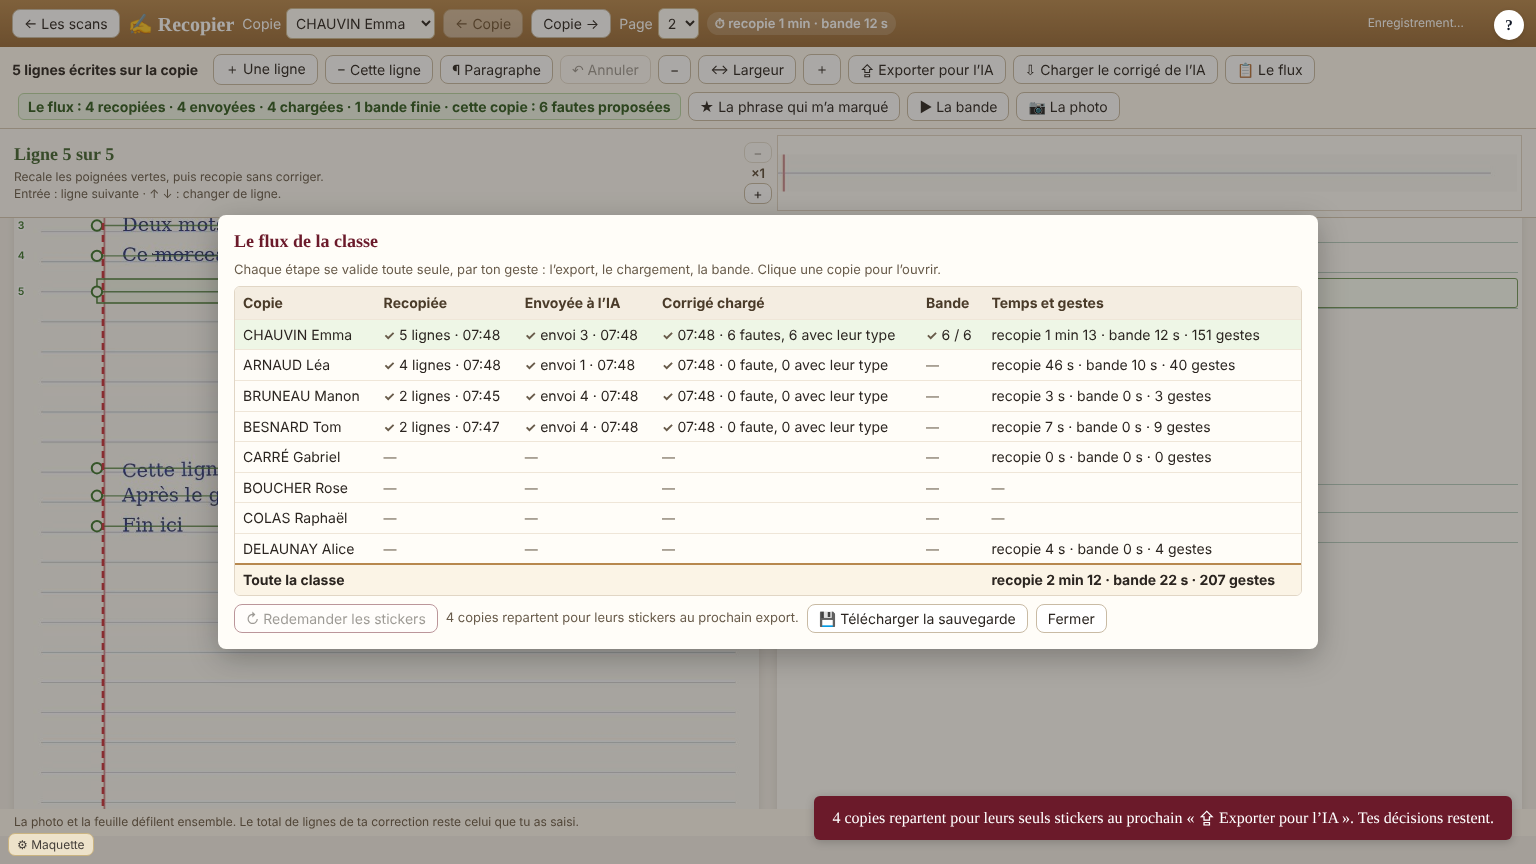
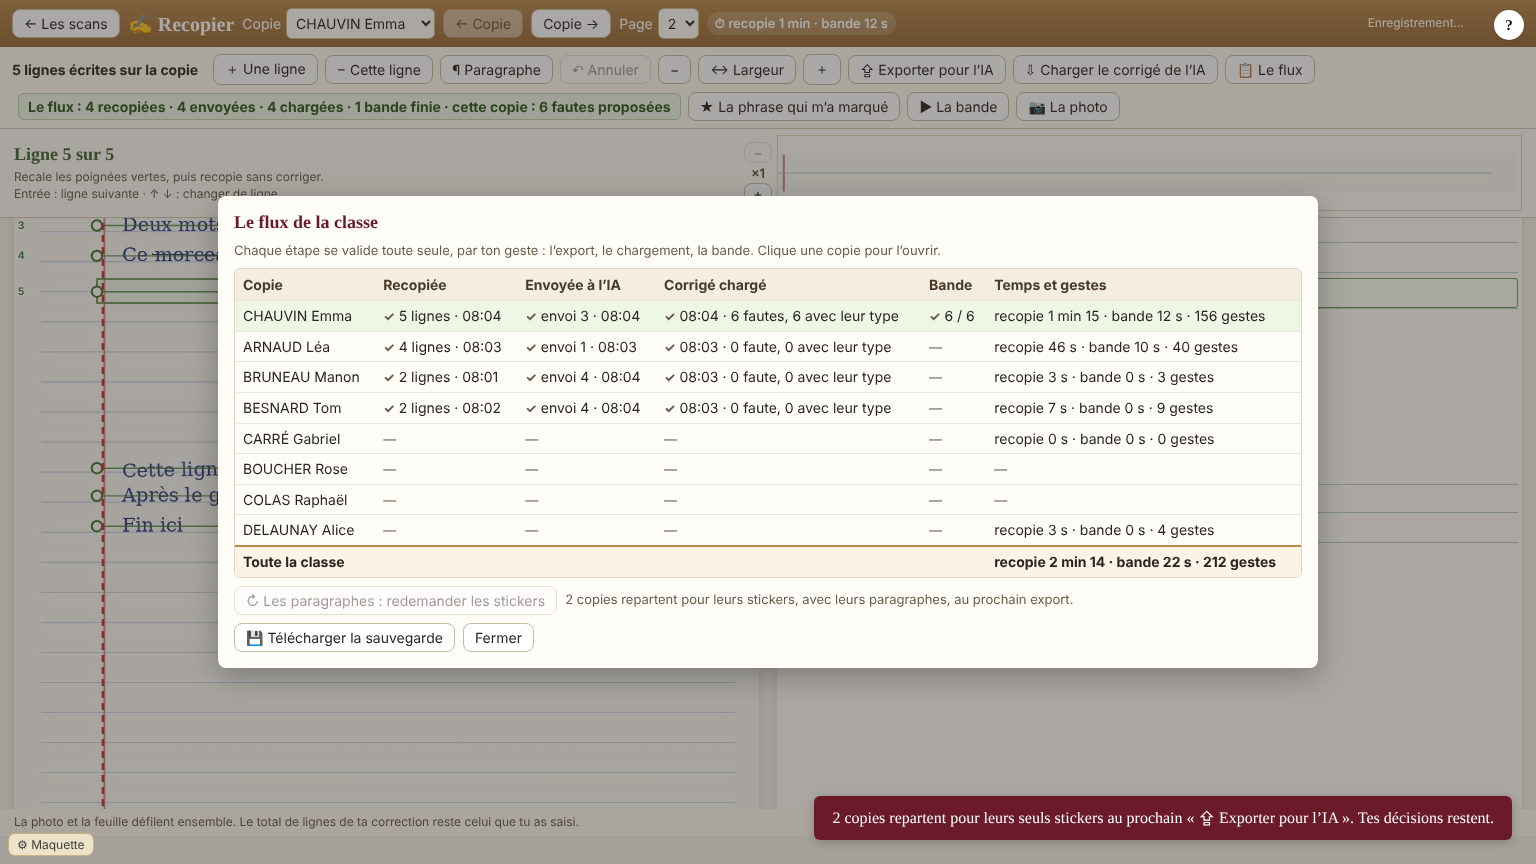
1.4.22-RU candidate (refaite) : 656, le rattrapage des paragraphes avec sa garde ; banc 154/0
Claude-Session: https://claude.ai/code/session_01W6y3bxqxe8JCGmg71JNvhD

Changed region(s): [[0.125, 0.2188, 0.875, 0.7812]]

diff --git a/LIVRAISONS/REDACTION/redaction-1.4.22-RU-candidat.html b/LIVRAISONS/REDACTION/redaction-1.4.22-RU-candidat.html
@@ -8046,7 +8046,7 @@ function rcInterface() {
     '<button id="rcPhOrdre" class="sc-btn" title="La dernière page de cette copie passe en premier (une copie photographiée dans le désordre). Chaque page garde sa recopie.">⇄ Ordre des pages</button>',
     '<button id="rcPhRetirer" class="sc-btn" title="Retirer les photos de cette copie de ce navigateur seulement. Une confirmation est demandée. Ta recopie, ta correction et tes marques restent au site.">🗑 Retirer les photos</button></div>',
     '<p id="rcPhotoPourquoi" class="rc-photo-pq"></p><div class="rc-ia-b"><button id="rcPhotoFermer" class="sc-btn" title="Fermer (Échap) : rien ne change.">Fermer</button></div></div></div>',
-    '<div id="rcFlux" class="rc-ia" hidden><div class="rc-ia-c rc-flux-c" role="dialog" aria-label="Le flux de la classe"><b>Le flux de la classe</b><span>Chaque étape se valide toute seule, par ton geste : l’export, le chargement, la bande. Clique une copie pour l’ouvrir.</span><div id="rcFluxTable" class="rc-flux-t"></div><div class="rc-ia-b"><button id="rcStRedemander" class="sc-btn" title="Les copies dont les stickers sont déjà revenus de l’IA repartent pour leurs seuls stickers au prochain « ⇪ Exporter pour l’IA » (avec leurs paragraphes, 632). Tes décisions restent ; la bande ne s’arrêtera que sur les stickers nouveaux.">↻ Redemander les stickers</button><span id="rcStRedemanderPq" class="rc-photo-pq"></span><button id="rcSauvegarde" class="sc-btn" title="Télécharger la sauvegarde de toute la rédaction, telle qu’elle est au site : le sujet et sa grille de stickers, les copies (recopie, envois, corrigés, bande, stickers, remarques, temps), les pages du paquet, les retours des élèves. « 📤 Restaurer » la relit. Les photos n’y sont pas : elles ne quittent jamais ce navigateur.">💾 Télécharger la sauvegarde</button><button id="rcFluxFermer" class="sc-btn" title="Fermer (Échap)">Fermer</button></div></div></div>',
+    '<div id="rcFlux" class="rc-ia" hidden><div class="rc-ia-c rc-flux-c" role="dialog" aria-label="Le flux de la classe"><b>Le flux de la classe</b><span>Chaque étape se valide toute seule, par ton geste : l’export, le chargement, la bande. Clique une copie pour l’ouvrir.</span><div id="rcFluxTable" class="rc-flux-t"></div><div class="rc-ia-b"><button id="rcStRedemander" class="sc-btn" hidden title="Un rattrapage, une seule fois : les copies envoyées à l’IA avant qu’elle voie les paragraphes (avant la 1.4.22) ont eu leurs stickers jugés sans eux. Elles repartent pour leurs seuls stickers, avec leurs paragraphes. Une fenêtre te dit d’abord ce que ça change (leurs remarques à relire, leurs fichiers à refaire). Le bouton disparaît quand plus aucune copie n’en a besoin.">↻ Les paragraphes : redemander les stickers</button><span id="rcStRedemanderPq" class="rc-photo-pq"></span><button id="rcSauvegarde" class="sc-btn" title="Télécharger la sauvegarde de toute la rédaction, telle qu’elle est au site : le sujet et sa grille de stickers, les copies (recopie, envois, corrigés, bande, stickers, remarques, temps), les pages du paquet, les retours des élèves. « 📤 Restaurer » la relit. Les photos n’y sont pas : elles ne quittent jamais ce navigateur.">💾 Télécharger la sauvegarde</button><button id="rcFluxFermer" class="sc-btn" title="Fermer (Échap)">Fermer</button></div></div></div>',
     '<div id="rcIA" class="rc-ia" hidden><div class="rc-ia-c" role="dialog" aria-label="Charger le corrigé de l’IA"><b>Charger le corrigé de l’IA</b><span>Colle ici tout le retour de l’IA, ou choisis le fichier qu’elle t’a rendu. Rien ne change tant que toutes les lignes ne correspondent pas.</span>',
     '<textarea id="rcIATexte" spellcheck="false" placeholder="Colle ici le retour de l’IA"></textarea>',
     '<div class="rc-ia-b"><label class="sc-btn" title="Choisir le fichier rendu par l’IA, ou tous ses fichiers d’un coup : ils se chargent l’un après l’autre, dans n’importe quel ordre.">Choisir un ou plusieurs fichiers<input id="rcIAFichier" type="file" multiple accept=".json,.txt,application/json,text/plain" hidden></label><button id="rcIAValider" class="sc-btn" title="Vérifier toutes les lignes, puis enregistrer le corrigé">Vérifier et charger</button><button id="rcIAFermer" class="sc-btn" title="Fermer sans rien changer (Échap)">Fermer</button><button id="rcIAEffacer" class="sc-btn rc-ia-effacer" title="Effacer, sur toute la classe, le corrigé de l’IA et tout ce qui vient de la bande (décisions, marques posées par la bande, cadres visés), pour tout refaire proprement. Ta recopie ne bouge pas. Une confirmation est demandée ; tout passe d’abord par la corbeille MJPC et un export.">🗑 Tout effacer : corrigés de l’IA et bande</button></div><p id="rcIAMessage" role="status"></p><div id="rcIAEffacerQ" class="rc-ia-q" hidden></div></div></div>'
@@ -8079,7 +8079,7 @@ function rcInterface() {
   e.querySelector("#rcPhRetoucher").onclick = () => rcPhotoFaire(pid => scRetoucher(pid));
   e.querySelector("#rcPhOrdre").onclick = () => rcPhotoFaire(() => scOrdrePages(RC.copie));
   e.querySelector("#rcPhRetirer").onclick = () => rcPhotoFaire(() => scRetirerPhotos());
-  e.querySelector("#rcFluxOuvrir").onclick = rcFluxOuvrir; e.querySelector("#rcFluxFermer").onclick = rcFluxFermer; e.querySelector("#rcSauvegarde").onclick = () => svTelecharger(); e.querySelector("#rcStRedemander").onclick = () => { stRedemander(); rcFluxRendre(); };
+  e.querySelector("#rcFluxOuvrir").onclick = rcFluxOuvrir; e.querySelector("#rcFluxFermer").onclick = rcFluxFermer; e.querySelector("#rcSauvegarde").onclick = () => svTelecharger(); e.querySelector("#rcStRedemander").onclick = () => stRedemanderDemander();
   e.querySelector("#rcPhraseOuvrir").onclick = rcPhraseOuvrir; e.querySelector("#rcPhraseFermer").onclick = rcPhraseFermer; e.querySelector("#rcPhraseOui").onclick = rcPhraseValider;
   e.querySelector("#rcPhraseAucune").onchange = ev => { if (ev.target.checked) rcPhraseAucune(); };
   e.querySelector("#rcIAEffacer").onclick = rcIAEffacerDemander;
@@ -8545,7 +8545,7 @@ function rcExportIA(renvoi) {
   const paquetsEnAttente = new Set(attente.map(k => (scCopie(k).recopie.envoi || {}).n)).size;
   const copies = aFaire.slice(0, RC_PAQUET_IA), le = new Date().toISOString(), nEnvoi = 1 + SC.copies.reduce((m, k) => Math.max(m, (((scCopie(k).recopie || {}).envoi) || {}).n || 0), 0);
   copies.forEach(k => { const s = scCopie(k), c = state.copies[k]; if (c && !c.id) { c.id = idCopie(); if (!c.creeLe) c.creeLe = le; }   // [C14 1.4.16] une copie part toujours avec son identité interne (une copie toute neuve n'en avait pas encore)
-    s.recopie = s.recopie || {}; s.recopie.envoi = Object.assign({ n: nEnvoi, le, lignes: rcLignesEcrites(k).length }, sti && !rcCopieACorriger(k) ? { seul: true } : {}); });   // [C14 1.4.11] le flux : l'envoi de chaque copie, numéroté et daté
+    s.recopie = s.recopie || {}; s.recopie.envoi = Object.assign({ n: nEnvoi, le, lignes: rcLignesEcrites(k).length, par: true }, sti && !rcCopieACorriger(k) ? { seul: true } : {}); /* [C14 656] par : ses paragraphes sont partis avec elle */ });   // [C14 1.4.11] le flux : l'envoi de chaque copie, numéroté et daté
   const o = { consigne: RC_CONSIGNE_IA + rcConsigneVariantes() + (sti ? RC_CONSIGNE_STICKERS + (typeof RC_CONSIGNE_POURQUOI === "string" ? RC_CONSIGNE_POURQUOI : "") + (typeof RC_CONSIGNE_REMARQUES === "string" ? RC_CONSIGNE_REMARQUES : "") + RC_CONSIGNE_PARAGRAPHES : ""), format: "mjpc-recopie-ia-3", copies: copies.map((k, i) => { const L = rcLignesEcrites(k), pages = [], seul = !!sti && !rcCopieACorriger(k), PAR = rcParagraphes(k); let n = 0;
     L.forEach(x => { let pg = pages.find(q => q.page === x.page); if (!pg) pages.push(pg = { page: x.page, lignes: [] }); pg.lignes.push(Object.assign({ id: x.id, n: ++n, texte: x.l.texte }, PAR.has(x.id) ? { par: true } : {}));
       rcLigneMaj(k, x.pid, x.id, l => { l.envoiIA = { texte: l.texte, le }; }); });
@@ -8859,7 +8859,8 @@ function rcPhotoFaire(fn) { const pid = RC.page; if (!pid) return; rcGarder(); r
 function rcFluxOuvrir() { if (RC.page) rcGarder(); RC.fluxOuvert = true; RC.ui.querySelector("#rcFlux").hidden = false; rcFluxRendre(); }
 function rcStRedemanderEtat() {   // [C14 632] grisé, il dit pourquoi
   const b = RC.ui && RC.ui.querySelector("#rcStRedemander"), q = RC.ui && RC.ui.querySelector("#rcStRedemanderPq"); if (!b || !q) return; const n = stRedemandables().length, r = typeof stRedemandeesN === "function" ? stRedemandeesN() : 0;
-  const pq = !stEnvoiGrille() ? "Pas encore : ta grille de stickers n’est pas prête." : n ? "" : r ? r + " copie" + (r > 1 ? "s" : "") + " repart" + (r > 1 ? "ent pour leurs" : " pour ses") + " stickers au prochain export." : "Aucune copie n’a encore ses stickers revenus de l’IA.";
+  b.hidden = !n && !r; if (b.hidden) { q.textContent = ""; return; }   // [C14 656] plus rien à rattraper : le bouton disparaît
+  const pq = r && !n ? r + " copie" + (r > 1 ? "s" : "") + " repart" + (r > 1 ? "ent pour leurs" : " pour ses") + " stickers, avec leurs paragraphes, au prochain export." : !stEnvoiGrille() ? "Pas encore : ta grille de stickers n’est pas prête." : "";
   b.disabled = !!pq; q.textContent = pq; }
 function rcFluxFermer() { RC.fluxOuvert = false; RC.ui.querySelector("#rcFlux").hidden = true; }
 /* [C14 403] le total de la classe, sous le flux */
@@ -9985,7 +9986,7 @@ RU_AIDES.recopie = { ou: "Recopier", l: [
   ["⇪ Exporter pour l'IA", "le paquet suivant, 8 copies au plus, sans nom d'élève ; grisé tant que l'énoncé ou ta grille de stickers manque, et il dit pourquoi ; « ↻ Renvoyer » si un retour s'est perdu"],
   ["⇩ Charger le corrigé de l'IA", "colle le retour, ou choisis ses fichiers, plusieurs d'un coup ; rien ne change tant que les lignes ne correspondent pas"],
   ["▶ La bande", "elle s'arrête à chaque faute proposée par l'IA, puis à chaque sticker"],
-  ["📋 Le flux", "chaque copie : recopiée, envoyée, chargée, la bande, ton temps ; en bas, toute la classe ; « 💾 Télécharger la sauvegarde » ; « ↻ Redemander les stickers » : les copies repartent pour leurs seuls stickers, tes décisions restent"],
+  ["📋 Le flux", "chaque copie : recopiée, envoyée, chargée, la bande, ton temps ; en bas, toute la classe ; « 💾 Télécharger la sauvegarde » ; « ↻ Les paragraphes : redemander les stickers » : un rattrapage pour les copies envoyées avant la 1.4.22, une fenêtre dit d'abord ce que ça change ; il disparaît ensuite"],
   ["⏱ en haut", "ton temps sur cette copie, compté seul : à la recopie, puis dans la bande"],
   ["📷 La photo", "les gestes rares : remplacer, tourner, retoucher, l'ordre des pages, retirer les photos de ce navigateur ; ta recopie suit la page"],
   ["Échap", "fermer la fenêtre ouverte ; sinon, revenir à l'écran des scans"]] };
@@ -10432,9 +10433,21 @@ function stGardeExport() {
   return null;
 }
 function stAEnvoyer(k) { const r = (scCopie(k).recopie || {}).stickersIA; return !r || !r.complet || !!r.redemande; }   // [C14 632] redemandée : elle repart pour ses stickers
-/* [C14 632] redemander les stickers des copies dont la liste est revenue entière (les paragraphes vus, après coup) ; le retour suivant la remplace, tes décisions restent */
-function stRedemandables() { return SC.copies.filter(k => { const r = (scCopie(k).recopie || {}).stickersIA; return r && r.complet && !r.redemande && rcLignesEcrites(k).length; }); }
+/* [C14 632, 656] (Paul 07:56 : « donc tu as fait un bouton patch en fait? […] il faut absolument que son infobulle contextualise ce qu'il fait et surtout qu'il y ait
+   une garde sur les conséquences de son utilisation ») : un rattrapage, une seule fois, pour les copies dont les stickers ont été jugés avant que l'IA voie les
+   paragraphes (leur dernier envoi n'avait pas « par ») ; la fenêtre dit d'abord ce que ça change ; le bouton disparaît quand il n'y en a plus */
+function stRedemandables() { return SC.copies.filter(k => { const rec = scCopie(k).recopie || {}, r = rec.stickersIA; return r && r.complet && !r.redemande && !(rec.envoi && rec.envoi.par) && rcLignesEcrites(k).length; }); }
 function stRedemandeesN() { return SC.copies.filter(k => !!(((scCopie(k).recopie || {}).stickersIA) || {}).redemande).length; }
+function stRedemanderDemander() {
+  if (!stEnvoiGrille()) { toast("Pas encore : ta grille de stickers n’est pas prête."); return; } const K = stRedemandables(); if (!K.length) return;
+  const finies = K.filter(k => typeof svCopieCorrigee === "function" && svCopieCorrigee(k)), rq = K.filter(k => { const r = stRq(k); return r && r.relu; }), pl = (n, s, p) => n + " " + (n > 1 ? p : s);
+  if (typeof rcFluxFermer === "function") rcFluxFermer();
+  scModale('<h3>↻ Les paragraphes : redemander les stickers</h3><p>Les stickers de ' + pl(K.length, "copie ont été jugés", "copies ont été jugés") + ' par l’IA avant qu’elle voie les paragraphes : les stickers de paragraphes n’y pouvaient pas être trouvés. ' + (K.length > 1 ? "Elles repartiront" : "Elle repartira") + ' pour leurs seuls stickers, avec leurs paragraphes, au prochain « ⇪ Exporter pour l’IA » (8 copies par fichier).</p>'
+    + '<p><b>Ce qui reste :</b> tes décisions, fautes et stickers, gardés ou non ; tes cadres ; ta recopie.</p>'
+    + '<p><b>Ce qui change :</b> le retour de l’IA remplace leurs remarques' + (rq.length ? " (" + pl(rq.length, "copie les a déjà relues", "copies les ont déjà relues") + ")" : "") + ' : tu les reliras au bout de leur bande, et leur bande s’arrêtera sur les stickers nouveaux. ' + (finies.length ? pl(finies.length, "copie est", "copies sont") + " « ✓ Copie corrigée » aujourd’hui : " + (finies.length > 1 ? "elles repasseront" : "elle repassera") + " à 99 % jusqu’à ta relecture. " : "") + 'Leur note peut changer. Leurs fichiers École Directe déjà téléchargés ne seront plus à jour : refais-les après « ✓ Copie corrigée ».</p>'
+    + '<button class="sc-btn" id="stRedemanderOui" title="' + escapeAttr("Les " + K.length + " copies repartent pour leurs seuls stickers au prochain export. Rien ne part tant que tu n’as pas exporté.") + '">↻ Oui, redemander (' + K.length + ')</button>');
+  const b = document.getElementById("stRedemanderOui"); if (b) b.onclick = () => { scModaleFermer(); stRedemander(); };
+}
 function stRedemander() {
   if (!stEnvoiGrille()) { toast("Pas encore : ta grille de stickers n’est pas prête."); return; } const K = stRedemandables(); if (!K.length) return;
   const le = new Date().toISOString(); K.forEach(k => { scCopie(k).recopie.stickersIA.redemande = le; }); saveState(); rcEtatIA();

diff --git a/LIVRAISONS/REDACTION/NOTE-1.4.22-RU.md b/LIVRAISONS/REDACTION/NOTE-1.4.22-RU.md
@@ -2,18 +2,18 @@
 
 *Sur les mots de Paul (02/11) : 06:48 (626, « ok » 06:59) ; 07:21 « ok pour 628 à 633 » ; 07:32 : « c'est le bouton valider (entrée) qui ne fonctionne pas alors, il ne semble rien faire et je n'ai aucune confirmation que la copie est bien finie. C'est la mesure à faire en premier et le correctif qui doit passer en premier ». Rien n'est en ligne : la mise en ligne attend son promeus.*
 
-- Fichier : `redaction-1.4.22-RU-candidat.html`, 883 928 o, md5 `80064a44e3c8cce5f376defc86d45938`. Base en ligne : 1.4.20-RU, md5 `cca2b54a64a3921bfe5403054e8af17c`.
-- Maquette et bancs : branche `c14-poignees`, commit `fc82f89d`.
+- Fichier : `redaction-1.4.22-RU-candidat.html`, 886 738 o, md5 `ac1d91c5337ada4b1681901602d00371`. Base en ligne : 1.4.20-RU, md5 `cca2b54a64a3921bfe5403054e8af17c`.
+- Maquette et bancs : branche `c14-poignees`, commit de la maquette après 656 (voir `git log c14-poignees`).
 
 ## Ce que ça change pour Paul
 - **638 — garder les remarques, et le savoir.** Mesuré en 1.4.20 : un clic dans une remarque pour la lire, puis Entrée, ajoutait un retour à la ligne à la remarque et ne gardait rien ; après « ✕ Retirer », Entrée rappuyait sur ce bouton et remettait la remarque ; « ✓ Je les garde » gardait bien, mais l'écran ne changeait pas si le focus était dans la liste. Maintenant, Entrée dans la liste quitte le champ (ton texte est gardé, sans retour à la ligne) et garde les remarques ; « ✕ Retirer » et « ✓ Je les garde » ne gardent plus le focus. Au bout de la bande, quand tout est fait : « ✓ Copie corrigée », en vert, « Sa carte est à 100 % ; son fichier pour École Directe est prêt, avec ses remarques », et un message.
 - **633 — la fin de la bande dit ce qui reste.** « Il reste 1 arrêt : S1 » (Entrée y va, puis à l'arrêt suivant qui reste), ou « Il reste les remarques à relire » ; « Bande finie » seulement quand il ne reste rien et qu'il manque autre chose (la phrase qui m'a marqué, par exemple : elle le dit).
-- **632 — les paragraphes dits à l'IA.** Une ligne commence un paragraphe quand une ligne est sautée avant elle, quand elle est en retrait, ou quand la ligne d'avant s'arrête tôt sur une fin de phrase ; un « ¶ » devant elle dans la recopie ; « ¶ Paragraphe » le pose ou l'enlève. L'export le dit à l'IA, et sa consigne le lui explique. Dans « 📋 Le flux » : « ↻ Redemander les stickers » — les copies dont les stickers sont revenus repartent pour leurs seuls stickers au prochain export ; tes décisions restent ; la bande ne s'arrêtera que sur les stickers nouveaux.
+- **632 — les paragraphes dits à l'IA.** Une ligne commence un paragraphe quand une ligne est sautée avant elle, quand elle est en retrait, ou quand la ligne d'avant s'arrête tôt sur une fin de phrase ; un « ¶ » devant elle dans la recopie ; « ¶ Paragraphe » le pose ou l'enlève. L'export le dit à l'IA, et sa consigne le lui explique. Dans « 📋 Le flux » : **« ↻ Les paragraphes : redemander les stickers » (656, Paul 07:56 : « donc tu as fait un bouton patch en fait? […] il faut absolument que son infobulle contextualise ce qu'il fait et surtout qu'il y ait une garde sur les conséquences de son utilisation »)** — un rattrapage, une seule fois : il ne paraît que pour les copies envoyées à l'IA avant la 1.4.22 (leur envoi n'avait pas les paragraphes) et disparaît quand plus aucune n'en a besoin ; son infobulle le dit ; un clic ouvre d'abord une fenêtre : ce qui reste (tes décisions, tes cadres, ta recopie), ce qui change (leurs remarques remplacées, à relire ; les copies « ✓ Copie corrigée » repassent à 99 % ; leur note peut changer ; leurs fichiers École Directe à refaire), avec les comptes ; « ↻ Oui, redemander (N) » ; Échap ou Fermer : rien ne change. Les copies repartent pour leurs seuls stickers au prochain export ; la bande ne s'arrêtera que sur les stickers nouveaux.
 - **626 — la copie dans la bande, sur un sticker de toute la lettre** (déjà dans la 1.4.21) : ses lignes bout à bout depuis la première, chacune entière ; ← → la font défiler.
 
 ## Les preuves
-- Banc complet : **153 vérifications, 0 défaut** (nouvelles : 626 ; 632 ×2 ; 633 ; 638 ×2 ; une ancienne attente récrite : au bout de la bande d'une copie entièrement corrigée, « ✓ Copie corrigée » au lieu de « Bande finie »).
-- Vrai site, en lecture seule (écritures interceptées), la 3 Dylan Bob : la copie qui a montré le défaut, au bout de sa bande, un clic dans une remarque puis Entrée : remarques gardées, écrites au site (interceptées), 100 %, « ✓ Copie corrigée », aucun retour à la ligne ; les paragraphes trouvés sur les 24 copies (sur celle-ci : lignes 10, 21, 28, comme mesuré à la main) ; aucune erreur.
+- Banc complet : **154 vérifications, 0 défaut** (nouvelles : 626 ; 632 ; 633 ; 638 ×2 ; 656 ×2 ; une ancienne attente récrite : au bout de la bande d'une copie entièrement corrigée, « ✓ Copie corrigée » au lieu de « Bande finie »).
+- Vrai site, en lecture seule (écritures interceptées), la 3 Dylan Bob : la copie qui a montré le défaut, au bout de sa bande, un clic dans une remarque puis Entrée : remarques gardées, écrites au site (interceptées), 100 %, « ✓ Copie corrigée », aucun retour à la ligne ; les paragraphes trouvés sur les 24 copies (sur celle-ci : lignes 10, 21, 28, comme mesuré à la main) ; « ↻ Les paragraphes : redemander les stickers » : visible, la garde dit 24 copies, 3 aux remarques déjà relues, 2 « ✓ Copie corrigée » ; Échap : rien de marqué, aucune écriture ; aucune erreur.
 
 ## Captures (maquette, élèves inventés)
-- `captures-1.4.22/apres-C14-638-copie-corrigee.png`, `apres-C14-633-il-reste.png`, `apres-C14-632-paragraphe.png`, `apres-C14-632-redemander.png`, `apres-C14-626-toute-la-lettre.png`.
+- `captures-1.4.22/apres-C14-638-copie-corrigee.png`, `apres-C14-633-il-reste.png`, `apres-C14-632-paragraphe.png`, `apres-C14-632-redemander.png`, `apres-C14-656-garde.png`, `apres-C14-626-toute-la-lettre.png`.
